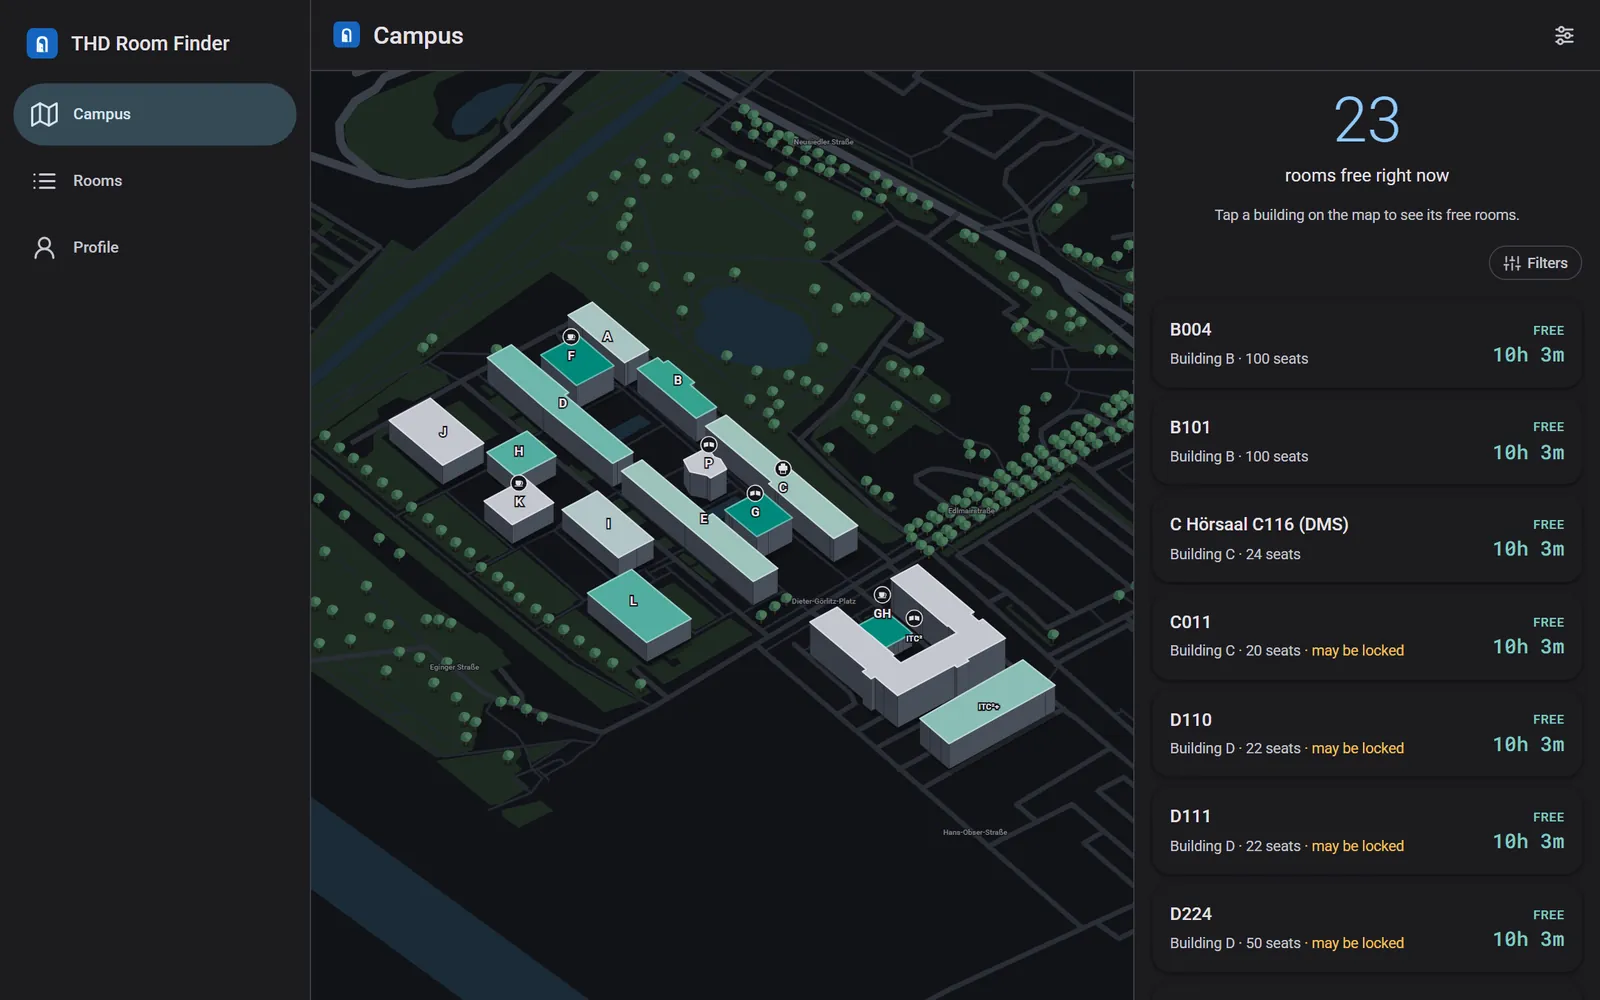
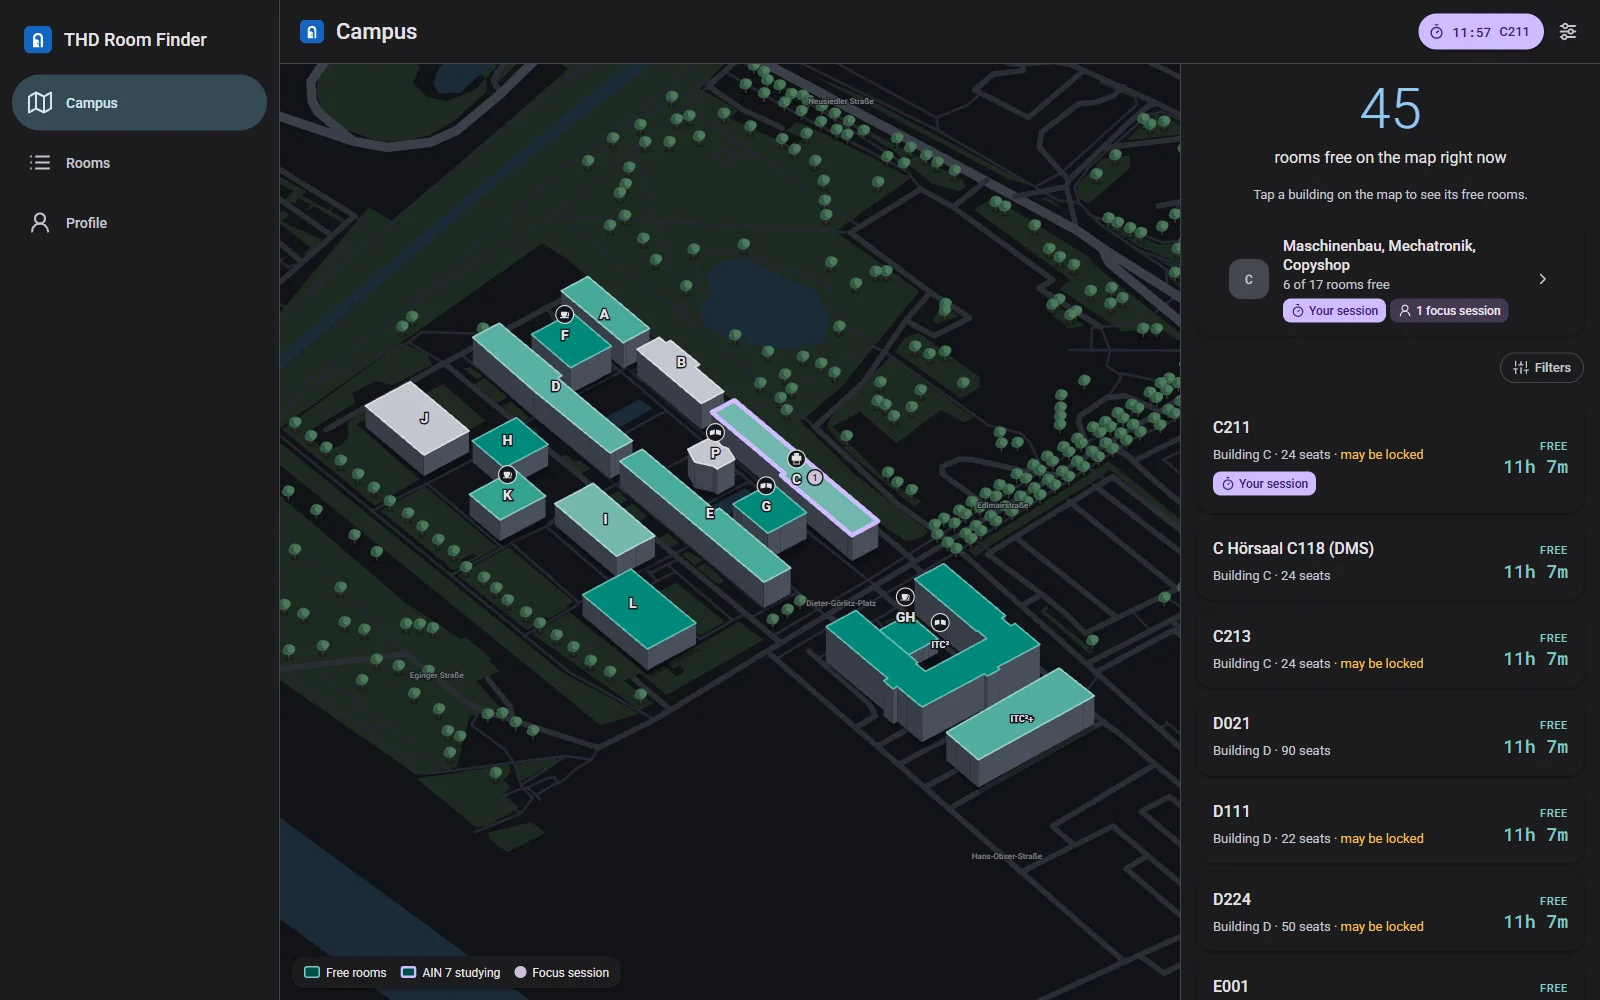
docs(website): show the app with and without a study profile
- How it works gets a switch: Without a profile (a session on this
  device, today in the graph) and With a study profile (your batch in
  the room list, Public to AIN 7, a synced semester with a study table
  and saved rooms), captured from the current app
- The campus map shows the signed-in view, with your batch's building
  outlined; the legend gains Your batch
- The focus section shows the batch session and its break
- Student groups shows a real group page and gathering (THD AI) and
  the three steps to get in: register, checked in the open, host
- Remove the screenshots and the gathering vignette nothing uses now

diff --git a/website/index.html b/website/index.html
@@ -140,6 +140,15 @@
     .step h3 { font-size: 20px; font-weight: 500; margin: 10px 0 6px; }
     .step p { font-size: 15px; color: var(--md-on-surface-variant); max-width: 300px; }
 
+    /* Without / with a study profile */
+    .modes { display: flex; justify-content: center; margin: -16px 0 40px; }
+    .modes div { display: inline-flex; padding: 4px; border-radius: var(--radius-xl); background: var(--md-surface-variant); }
+    .modes button { border: 0; background: none; font: 500 14px var(--font); color: var(--md-on-surface-variant); padding: 10px 18px; border-radius: var(--radius-xl); cursor: pointer; }
+    .modes button[aria-pressed="true"] { background: var(--md-surface); color: var(--md-on-surface); box-shadow: var(--shadow-1); }
+    .steps[hidden] { display: none; }
+    .mode-note { text-align: center; font-size: 14px; color: var(--md-on-surface-variant); margin-top: 32px; }
+    .groups-stack { min-height: 660px; }
+
     /* Focus */
     .focus { background: var(--md-surface); }
     .split { display: grid; grid-template-columns: 1.05fr .95fr; gap: 64px; align-items: center; }
@@ -154,6 +163,7 @@
     .tile { width: 40px; height: 40px; border-radius: var(--radius-m); background: var(--md-focus-container); color: var(--md-on-focus-container); display: flex; align-items: center; justify-content: center; }
     .tile svg { width: 20px; height: 20px; }
     .feats h3 { font-size: 16px; font-weight: 500; }
+    .group-steps .tile { font-weight: 500; font-size: 16px; }
     .feats p { font-size: 15px; color: var(--md-on-surface-variant); margin-top: 2px; }
     .stack { position: relative; display: flex; justify-content: center; min-height: 640px; }
     .stack .phone { position: absolute; width: 58%; max-width: 270px; }
@@ -234,7 +244,7 @@
 
 <header class="bar">
   <div class="wrap">
-    <a class="brand" href="#top"><img src="icons/app-icon-192.png" alt="" width="32" height="32"><span>THD Room Finder</span></a>
+    <a class="brand" href="#top"><img src="assets/desktop-map-light.webp" alt="The campus map on a laptop, signed in: building C outlined in violet because your batch is studying there, your own session in C211, and the longest-free rooms listed on the right"icons/app-icon-192.png" alt="" width="32" height="32"><span>THD Room Finder</span></a>
     <nav aria-label="Sections" data-i18n-attr="aria-label:Abschnitte">
       <a href="#why" data-de="Warum">Why</a>
       <a href="#how" data-de="So geht's">How it works</a>
@@ -311,9 +321,13 @@
         <h2 data-de="Vom Flur an den Schreibtisch in drei Schritten">From the corridor to a desk in three steps</h2>
         <p class="sub" data-de="Kein Herumlaufen mehr, um Türen auszuprobieren. Die App kennt den Stundenplan jedes Raums und sagt dir, wie lange er frei bleibt.">No more walking the corridors trying doors. The app knows every room's timetable and tells you how long it stays free.</p>
       </div>
-      <div class="steps">
+      <div class="modes"><div role="group" aria-label="Show the app" data-de-label="App zeigen">
+        <button type="button" data-mode="guest" aria-pressed="true" data-de="Ohne Profil">Without a profile</button>
+        <button type="button" data-mode="profile" aria-pressed="false" data-de="Mit Studienprofil">With a study profile</button>
+      </div></div>
+      <div class="steps" data-steps="guest">
         <div class="step">
-          <div class="phone"><picture><source srcset="assets/screen-rooms-dark.webp" media="(prefers-color-scheme: dark)"><img src="assets/screen-rooms-light.webp" alt="The room list on a phone: 31 rooms free right now, B004 free for 10 hours at the top, then B101, C116 and C011" loading="lazy" width="720" height="1560"></picture></div>
+          <div class="phone"><picture><source srcset="assets/guest-rooms-dark.webp" media="(prefers-color-scheme: dark)"><img src="assets/guest-rooms-light.webp" alt="The room list on a phone: 108 rooms free right now, C211 at the top, free for 11 hours 20 minutes" data-de-alt="Die Raumliste auf dem Handy: 108 Räume gerade frei, oben C211, frei für 11 Stunden 20 Minuten" loading="lazy" width="720" height="1560"></picture></div>
           <div>
             <span class="num">1</span>
             <h3 data-de="Finde einen Raum">Find a room</h3>
@@ -321,22 +335,49 @@
           </div>
         </div>
         <div class="step">
-          <div class="phone"><picture><source srcset="assets/screen-focus-dark.webp" media="(prefers-color-scheme: dark)"><img src="assets/screen-focus-light.webp" alt="A running Pomodoro session in room C211: block 1 of 6, 11:57 left before the first break" loading="lazy" width="720" height="1560"></picture></div>
+          <div class="phone"><picture><source srcset="assets/guest-focus-dark.webp" media="(prefers-color-scheme: dark)"><img src="assets/guest-focus-light.webp" alt="A focus session on this device in C211: 11:58 left in block 1 of 6, and a note that someone else is already studying there" data-de-alt="Eine Fokus-Session auf diesem Gerät in C211: noch 11:58 in Block 1 von 6, dazu der Hinweis, dass dort schon jemand lernt" loading="lazy" width="720" height="1560"></picture></div>
           <div>
             <span class="num">2</span>
             <h3 data-de="Starte den Fokus">Start focus</h3>
-            <p data-de="Ein Tipp startet Pomodoro: 25 Minuten Fokus, 5 Minuten Pause. Die Session endet von selbst vor der nächsten Vorlesung.">One tap starts Pomodoro: 25 minutes of focus, 5 minutes of break. It ends on its own before the next lecture.</p>
+            <p data-de="Ein Tipp startet Pomodoro, 25 Minuten Fokus und 5 Minuten Pause. Die Session bleibt auf deinem Handy und endet vor der nächsten Vorlesung.">One tap starts Pomodoro, 25 minutes of focus and 5 of break. It stays on your phone and ends before the next lecture.</p>
           </div>
         </div>
         <div class="step">
-          <div class="phone"><picture><source srcset="assets/screen-profile-dark.webp" media="(prefers-color-scheme: dark)"><img src="assets/screen-profile-light.webp" alt="The focus graph on the profile: 25 hours 25 minutes this semester and 18 study days in a row" loading="lazy" width="720" height="1560"></picture></div>
+          <div class="phone"><picture><source srcset="assets/guest-profile-dark.webp" media="(prefers-color-scheme: dark)"><img src="assets/guest-profile-light.webp" alt="The profile without an account: 13 minutes this semester, today in the focus graph" data-de-alt="Das Profil ohne Konto: 13 Minuten in diesem Semester, heute im Fokus-Verlauf" loading="lazy" width="720" height="1560"></picture></div>
           <div>
             <span class="num">3</span>
             <h3 data-de="Sieh dein Semester wachsen">Watch your semester grow</h3>
-            <p data-de="Jeder Block färbt deinen Fokus-Verlauf dunkler. Streak, Semesterstunden und eine Karte zum Teilen.">Every block darkens your focus graph. A streak, your semester hours and a card to share.</p>
+            <p data-de="Jeder Block färbt deinen Fokus-Verlauf dunkler, gespeichert auf diesem Gerät. Kein Konto nötig.">Every block darkens your focus graph, kept on this device. No account needed.</p>
           </div>
         </div>
       </div>
+      <div class="steps" data-steps="profile" hidden>
+        <div class="step">
+          <div class="phone"><picture><source srcset="assets/profile-rooms-dark.webp" media="(prefers-color-scheme: dark)"><img src="assets/profile-rooms-light.webp" alt="The room list signed in: C211 at the top shows AIN 7, 1 studying, Max" data-de-alt="Die Raumliste angemeldet: oben C211 mit AIN 7, 1 lernt, Max" loading="lazy" width="720" height="1560"></picture></div>
+          <div>
+            <span class="num">1</span>
+            <h3 data-de="Sieh, wo dein Jahrgang lernt">See where your batch is</h3>
+            <p data-de="Räume zeigen, wer aus deinem Jahrgang dort lernt, etwa „AIN 7 · 1 lernt“. Geh hin und lern mit.">Rooms show who from your batch is studying there, like "AIN 7 · 1 studying". Walk over and join them.</p>
+          </div>
+        </div>
+        <div class="step">
+          <div class="phone"><picture><source srcset="assets/profile-focus-dark.webp" media="(prefers-color-scheme: dark)"><img src="assets/profile-focus-light.webp" alt="Focusing in C211 with the batch: Public to AIN 7 selected, Max already studying here" data-de-alt="Fokus in C211 mit dem Jahrgang: Öffentlich für AIN 7 gewählt, Max lernt schon hier" loading="lazy" width="720" height="1560"></picture></div>
+          <div>
+            <span class="num">2</span>
+            <h3 data-de="Lern mit deinem Jahrgang">Focus with your batch</h3>
+            <p data-de="Öffentlich sieht dein Jahrgang, wo du bist; privat sehen andere nur, dass der Raum belegt ist. Zusammen lernen lädt Freunde mit einem Link ein.">Public shows your batch where you are; Private only shows the room as taken. Study together invites friends with one link.</p>
+          </div>
+        </div>
+        <div class="step">
+          <div class="phone"><picture><source srcset="assets/profile-profile-dark.webp" media="(prefers-color-scheme: dark)"><img src="assets/profile-profile-light.webp" alt="Lena's profile, AIN 7: a study table tomorrow, 25 hours this semester and 18 study days in a row" data-de-alt="Lenas Profil, AIN 7: ein Lerntisch morgen, 25 Stunden in diesem Semester und 18 Lerntage in Folge" loading="lazy" width="720" height="1560"></picture></div>
+          <div>
+            <span class="num">3</span>
+            <h3 data-de="Dein Semester, überall">Your semester, everywhere</h3>
+            <p data-de="Dein Fokus-Verlauf, gespeicherte Räume und Lerntische, gleich auf Handy und Laptop.">Your focus graph, saved rooms and study tables, the same on your phone and your laptop.</p>
+          </div>
+        </div>
+      </div>
+      <p class="mode-note" data-de="Ein Studienprofil ist kostenlos: ein E-Mail-Code, dein Studiengang und dein Jahrgang.">A study profile is free: an email code, your programme and your batch.</p>
     </div>
   </section>
 
@@ -354,6 +395,7 @@
       <div class="legend" aria-hidden="true">
         <span><i style="background:var(--md-tertiary)"></i><span data-de="Frei">Free</span></span>
         <span><i style="background:#E6A100"></i><span data-de="Bald belegt (≤ 40 Min.)">Closing soon (≤ 40 min)</span></span>
+        <span><i style="background:transparent;box-shadow:inset 0 0 0 2px var(--md-focus)"></i><span data-de="Dein Jahrgang">Your batch</span></span>
         <span><i style="background:var(--md-focus)"></i><span data-de="Fokus-Session">Focus session</span></span>
         <span><i style="background:#B3261E"></i><span data-de="Vorlesung">Lecture</span></span>
       </div>
@@ -384,8 +426,8 @@
           </ul>
         </div>
         <div class="stack">
-          <div class="phone"><picture><source srcset="assets/screen-focus-dark.webp" media="(prefers-color-scheme: dark)"><img src="assets/screen-focus-light.webp" alt="" loading="lazy" width="720" height="1560"></picture></div>
-          <div class="phone"><picture><source srcset="assets/screen-break-dark.webp" media="(prefers-color-scheme: dark)"><img src="assets/screen-break-light.webp" alt="The same session in C211 on a break: 2:58 left, block 2 of 6 next" loading="lazy" width="720" height="1560"></picture></div>
+          <div class="phone"><picture><source srcset="assets/profile-focus-dark.webp" media="(prefers-color-scheme: dark)"><img src="assets/profile-focus-light.webp" alt="" loading="lazy" width="720" height="1560"></picture></div>
+          <div class="phone"><picture><source srcset="assets/profile-break-dark.webp" media="(prefers-color-scheme: dark)"><img src="assets/profile-break-light.webp" alt="The same session in C211 on a break: 2:58 left, block 2 of 6 next, still public to AIN 7" data-de-alt="Dieselbe Session in C211 in der Pause: noch 2:58, als Nächstes Block 2 von 6, weiter öffentlich für AIN 7" loading="lazy" width="720" height="1560"></picture></div>
         </div>
       </div>
     </div>
@@ -415,19 +457,19 @@
   <section id="groups">
     <div class="wrap">
       <div class="split rev">
-        <div class="art"><picture><source srcset="assets/gathering-dark.webp" media="(prefers-color-scheme: dark)"><img src="assets/gathering-light.webp" alt="A game night in C212 from a checked student group: long tables filling up as people reply, and a Going button" data-de-alt="Ein Spieleabend in C212 von einer geprüften Studierendengruppe: lange Tische füllen sich mit den Antworten, dazu ein Ich-komme-Knopf" loading="lazy" width="400" height="705"></picture></div>
+        <div class="stack groups-stack"><div class="phone"><picture><source srcset="assets/group-page-dark.webp" media="(prefers-color-scheme: dark)"><img src="assets/group-page-light.webp" alt="The THD AI group page: verified, a short description, its website and a talk coming up on Thursday" data-de-alt="Die Gruppenseite von THD AI: geprüft, eine kurze Beschreibung, die Website und ein Vortrag am Donnerstag" loading="lazy" width="720" height="1560"></picture></div><div class="phone"><picture><source srcset="assets/group-gathering-dark.webp" media="(prefers-color-scheme: dark)"><img src="assets/group-gathering-light.webp" alt="A THD AI talk in A008 on Thursday 18:00: seats fill in a half circle as people reply, with a Going button" data-de-alt="Ein Vortrag von THD AI in A008 am Donnerstag um 18:00: Plätze im Halbkreis füllen sich mit den Antworten, dazu ein Ich-komme-Knopf" loading="lazy" width="720" height="1560"></picture></div></div>
         <div>
           <p class="eyebrow" data-de="Studierendengruppen">Student groups</p>
-          <h2 data-de="Spieleabend, Vortrag, große Lernrunde">Game nights, talks, big study sessions</h2>
-          <p class="sub" data-de="Studierendengruppen registrieren sich offen bei THD AI und bekommen ein geprüftes Abzeichen. Dann kündigen sie Treffen in Räumen an, die die THD genehmigt hat.">Student groups register in the open with THD AI and get a checked tag. Then they announce gatherings in rooms THD approved for them.</p>
-          <ul class="feats" style="margin-top:28px">
-            <li><span class="tile"><svg viewBox="0 0 24 24" fill="none" stroke="currentColor" stroke-width="2" stroke-linecap="round" stroke-linejoin="round" aria-hidden="true"><circle cx="12" cy="12" r="4"/><circle cx="12" cy="3.5" r="1.5"/><circle cx="12" cy="20.5" r="1.5"/><circle cx="3.5" cy="12" r="1.5"/><circle cx="20.5" cy="12" r="1.5"/></svg></span>
-              <div><h3 data-de="Passend zum Raum">Sized to the room</h3><p data-de="Vier Aufbauten, von Reihen bis langen Tischen. Die Plätze füllen sich, wenn Leute zusagen, mit Warteliste, wenn es voll ist.">Four setups, from rows to long tables. Seats fill as people reply, with a waiting list when it's full.</p></div></li>
-            <li><span class="tile"><svg viewBox="0 0 24 24" fill="none" stroke="currentColor" stroke-width="2" stroke-linecap="round" stroke-linejoin="round" aria-hidden="true"><circle cx="9" cy="8" r="3.5"/><path d="M2 20c0-3.5 3-6 7-6s7 2.5 7 6"/><path d="M16 4.5a3.5 3.5 0 0 1 0 7M22 20c0-3-2-5.2-5-5.8"/></svg></span>
-              <div><h3 data-de="Planen ohne E-Mail-Listen">Plan without email lists</h3><p data-de="Organisatoren sehen, mit wie vielen sie rechnen können und welche Studiengänge kommen. Keine E-Mail-Adressen.">Organizers see how many to plan for and which programmes are coming. Never email addresses.</p></div></li>
-            <li><span class="tile"><svg viewBox="0 0 24 24" fill="none" stroke="currentColor" stroke-width="2" stroke-linecap="round" stroke-linejoin="round" aria-hidden="true"><path d="M12 3l8 3v6c0 5-3.5 8-8 9-4.5-1-8-4-8-9V6z"/><path d="M9 12l2 2 4-4"/></svg></span>
-              <div><h3 data-de="Geprüft, nie gekauft">Checked, never bought</h3><p data-de="Jede Gruppe registriert sich selbst im <a href=&quot;https://github.com/THD-AI/organizations&quot;>öffentlichen Register</a>. Das Abzeichen lässt sich nicht kaufen.">Every group registers itself in the <a href="https://github.com/THD-AI/organizations">public registry</a>. The tag can't be bought.</p></div></li>
-          </ul>
+          <h2 data-de="Eure Gruppe, eure Seite, eure Treffen">Your group, your page, your gatherings</h2>
+          <p class="sub" data-de="Clubs und Initiativen bekommen eine eigene Seite und laden zu Spieleabenden, Vorträgen und großen Lernrunden ein. So kommt eine Gruppe dazu:">Clubs and initiatives get their own page and invite people to game nights, talks and big study sessions. This is how a group gets in:</p>
+          <ol class="feats group-steps" style="margin-top:28px">
+            <li><span class="tile num">1</span>
+              <div><h3 data-de="In der App registrieren">Register in the app</h3><p data-de="Profil → Gruppe registrieren, mit den öffentlichen Angaben der Gruppe: Name, Kurzname, Website.">Profile → Register your group, with the group's public details: name, short name, website.</p></div></li>
+            <li><span class="tile num">2</span>
+              <div><h3 data-de="Offen geprüft">Checked in the open</h3><p data-de="Ein Nachweis im <a href=&quot;https://github.com/THD-AI/organizations&quot;>öffentlichen Register</a>, geprüft von einem THD-AI-Mitglied, das nicht ihr seid. Das Abzeichen lässt sich nicht kaufen.">One proof in the <a href="https://github.com/THD-AI/organizations">public registry</a>, checked by a THD AI member who isn't you. The tag can't be bought.</p></div></li>
+            <li><span class="tile num">3</span>
+              <div><h3 data-de="Treffen ankündigen">Host gatherings</h3><p data-de="In Räumen, die die THD für euch genehmigt hat. Leute antworten mit Ich komme, Vielleicht oder Kann nicht; ihr seht, mit wie vielen ihr rechnen könnt, nie E-Mail-Adressen.">In rooms THD approved for you. People reply Going, Maybe or Can't; you see how many to plan for, never email addresses.</p></div></li>
+          </ol>
         </div>
       </div>
     </div>
@@ -543,6 +585,12 @@
   try { saved = localStorage.getItem('thd_site_lang'); } catch {}
   set(saved || ((navigator.language || '').toLowerCase().startsWith('de') ? 'de' : 'en'));
   btn.addEventListener('click', () => set(document.documentElement.lang === 'de' ? 'en' : 'de'));
+
+  // How it works: without a profile / with a study profile.
+  document.querySelectorAll('.modes button').forEach((b) => b.addEventListener('click', () => {
+    document.querySelectorAll('.modes button').forEach((x) => x.setAttribute('aria-pressed', String(x === b)));
+    document.querySelectorAll('[data-steps]').forEach((el) => { el.hidden = el.dataset.steps !== b.dataset.mode; });
+  }));
 
   // Latest Android release: link the APK directly and show its version.
   fetch('https://api.github.com/repos/arudaev/THD-Room-Finder/releases/latest')
